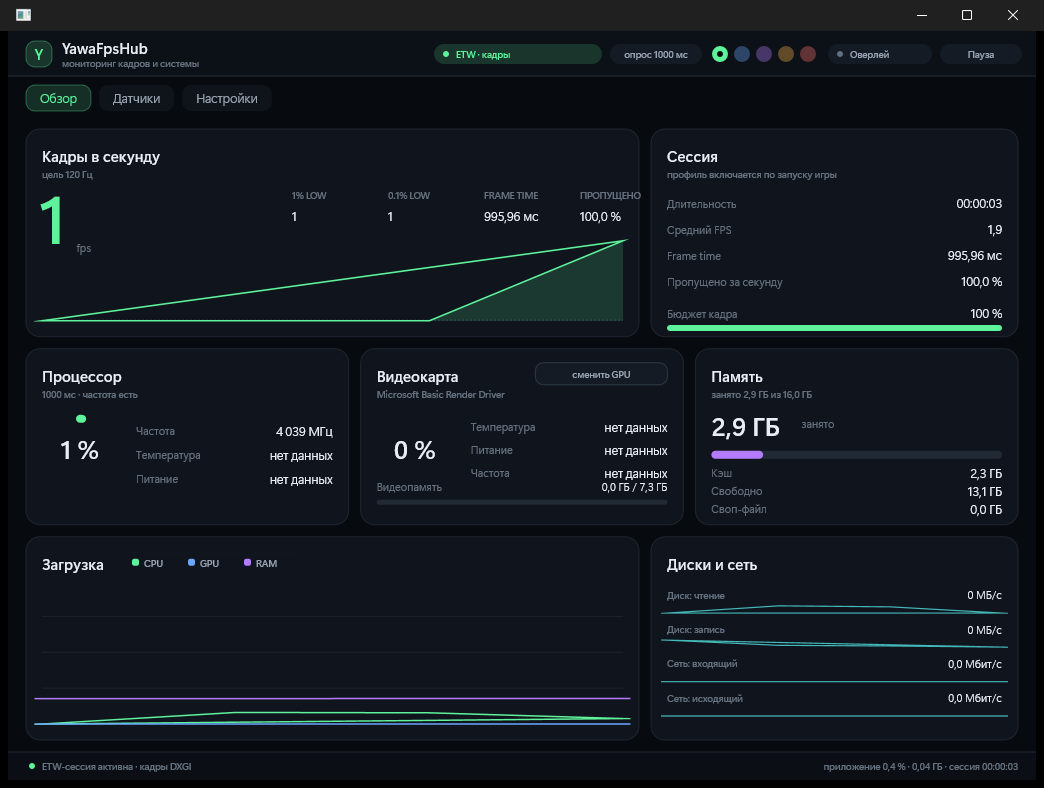
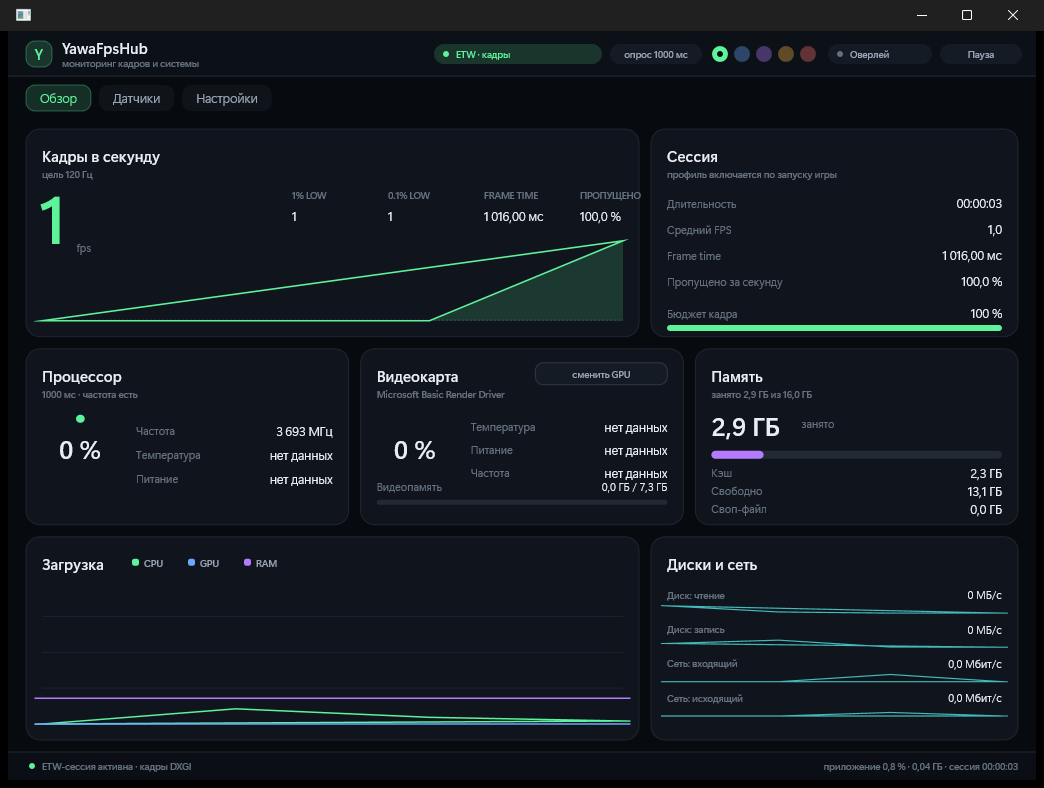
Дашборд: сетка графика и колонки по ширине; пути настроек с многоточием

diff --git a/app/ui/dashboard_view.cpp b/app/ui/dashboard_view.cpp
@@ -59,8 +59,8 @@ void drawFpsCard(Renderer& renderer, const AppModel& model, const Theme& theme, 
         TextRole::Small, theme.textFaint);
 
     const float statsTop = inner.top + 42.0f;
-    const float statsLeft = inner.left + 250.0f;
-    const float columnWidth = 96.0f;
+    const float statsLeft = inner.left + std::max(inner.width() * 0.38f, 210.0f);
+    const float columnWidth = (inner.right - statsLeft) / 4.0f;
     const std::pair<std::wstring, std::wstring> stats[] = {
         { L"1% LOW", wideNumber(model.fps.low1Fps, MetricUnit::Count, 0) },
         { L"0.1% LOW", wideNumber(model.fps.low01Fps, MetricUnit::Count, 0) },
@@ -85,6 +85,11 @@ void drawFpsCard(Renderer& renderer, const AppModel& model, const Theme& theme, 
         maximum = std::max(maximum, model.historyScratch[index]);
     }
     maximum *= 1.15f;
+
+    for (int step = 1; step < 4; ++step) {
+        const float y = chart.top + chart.height() * static_cast<float>(step) / 4.0f;
+        renderer.drawLine(chart.left, y, chart.right, y, theme.line.withAlpha(0.5f), 1.0f);
+    }
 
     const float targetMs = 1000.0f / static_cast<float>(std::max(model.settings.capture.targetHz, 30));
     if (targetMs < maximum) {
@@ -213,7 +218,7 @@ void drawGraphicsCard(Renderer& renderer, const AppModel& model, const Theme& th
         top += 23.0f;
     }
 
-    const float vramTop = inner.bottom - 30.0f;
+    const float vramTop = inner.bottom - 32.0f;
     renderer.text(L"Видеопамять", Rect{ inner.left, vramTop, inner.left + 120.0f, vramTop + 16.0f }, TextRole::Small,
         theme.textFaint);
 
@@ -223,7 +228,7 @@ void drawGraphicsCard(Renderer& renderer, const AppModel& model, const Theme& th
                 + wideNumber(vramTotal, MetricUnit::Gigabytes, 1),
             Rect{ inner.left + 120.0f, vramTop, inner.right, vramTop + 16.0f }, TextRole::Small, theme.text,
             TextAlign::Right);
-        drawBar(renderer, Rect{ inner.left, inner.bottom - 9.0f, inner.right, inner.bottom - 4.0f },
+        drawBar(renderer, Rect{ inner.left, inner.bottom - 11.0f, inner.right, inner.bottom - 5.0f },
             static_cast<float>(vramUsed / vramTotal), theme.gpu, theme.line);
     } else {
         renderer.text(L"нет данных", Rect{ inner.left + 120.0f, vramTop, inner.right, vramTop + 16.0f },
@@ -369,7 +374,7 @@ void drawDashboard(Renderer& renderer, const AppModel& model, const Theme& theme
     const Rect rightColumn{ leftColumn.right + kGap, area.top, area.right, area.bottom };
 
     const float topRow = std::clamp(area.height() * 0.34f, 190.0f, 228.0f);
-    const float middleRow = std::clamp(area.height() * 0.28f, 176.0f, 200.0f);
+    const float middleRow = std::clamp(area.height() * 0.28f, 182.0f, 204.0f);
 
     drawFpsCard(renderer, model, theme, Rect{ leftColumn.left, leftColumn.top, leftColumn.right,
                                                 leftColumn.top + topRow });

diff --git a/app/ui/settings_view.cpp b/app/ui/settings_view.cpp
@@ -36,6 +36,21 @@ void drawChip(Renderer& renderer, const Rect& rect, std::wstring_view label, boo
     renderer.text(label, rect, TextRole::Small, isActive ? theme.accent : theme.textDim, TextAlign::Center);
 }
 
+// Длинный путь не влезает в карточку: оставляем хвост, начало заменяем многоточием,
+// чтобы пользователь всё равно видел, где лежит файл.
+std::wstring clipPathLeft(Renderer& renderer, std::wstring value, float maxWidth)
+{
+    if (renderer.measureText(value, TextRole::Mono) <= maxWidth) {
+        return value;
+    }
+
+    const std::wstring prefix = L"…";
+    while (!value.empty() && renderer.measureText(prefix + value, TextRole::Mono) > maxWidth) {
+        value.erase(0, 1);
+    }
+    return prefix + value;
+}
+
 Rect chipRow(float left, float top, float width, float height)
 {
     return Rect{ left, top, left + width, top + height };
@@ -176,8 +191,8 @@ void drawPortableCard(Renderer& renderer, const AppModel& model, const Theme& th
     for (const auto& [label, value] : rows) {
         renderer.text(label, Rect{ inner.left, top, inner.left + 92.0f, top + 18.0f }, TextRole::Small,
             theme.textDim);
-        renderer.text(value, Rect{ inner.left + 96.0f, top, inner.right, top + 18.0f }, TextRole::Mono,
-            theme.textFaint);
+        renderer.text(clipPathLeft(renderer, value, inner.right - inner.left - 96.0f),
+            Rect{ inner.left + 96.0f, top, inner.right, top + 18.0f }, TextRole::Mono, theme.textFaint);
         top += 26.0f;
     }
 
